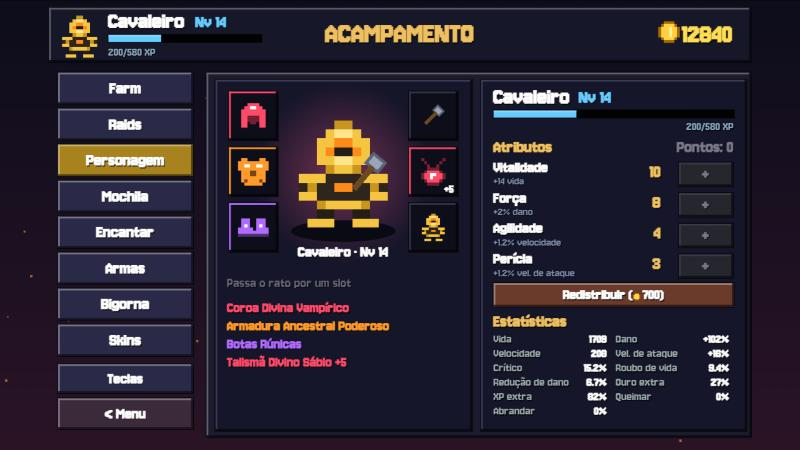
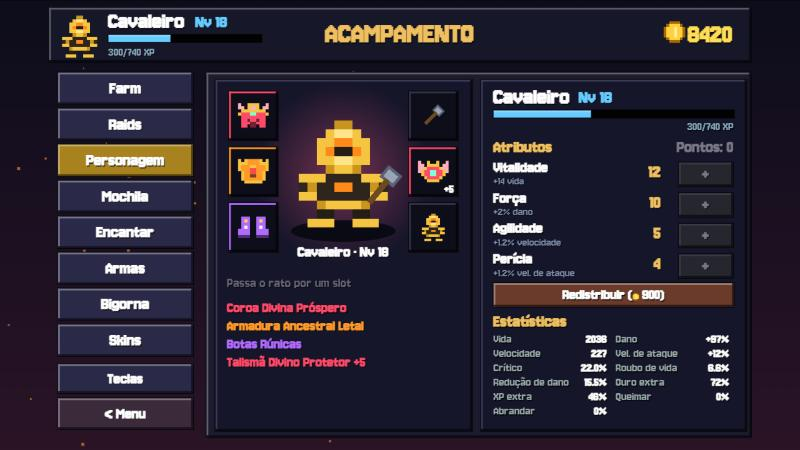
v1.1-BETA: economia, armas por nível/raid, equipamento por raridade
- Armas seguram-se corretamente na mão (menu principal e ecrã Personagem)
- Economia reequilibrada: ouro por inimigo reduzido, recompensa de raid ajustada
  e preços das armas mais altos (400 / 1800 / 7000 / 20000)
- As 4 armas mais fortes de cada classe só se desbloqueiam com nível e raids
- Sprites de equipamento diferentes para cada raridade (20 desenhos novos)
- Cheat codes antigos removidos
- Versão atualizada para v1.1-BETA; README e imagens da wiki atualizados

diff --git a/index.html b/index.html
@@ -236,24 +236,24 @@ const CLASSES = {
   knight: { name: 'Cavaleiro', hp: 140, spd: 165, sp: 'Redemoinho', desc: 'Tanque corpo-a-corpo. Muita vida e golpes pesados.', spDesc: 'Gira a lâmina e fere tudo à volta.',
     weapons: [
       { id: 'k_sword',  n: 'Espada de Ferro',    price: 0,   t: 'melee', dmg: 1,   cd: .35, range: 70,  arc: .45, kb: 240, info: 'Rápida e equilibrada.', sk: { n: 'Investida', cd: 6, d: 'Lança-te em frente ferindo tudo no caminho.' } },
-      { id: 'k_axe',    n: 'Machado de Guerra',  price: 120, t: 'melee', dmg: 2.2, cd: .7,  range: 82,  arc: .75, kb: 380, info: 'Lento, arco enorme.', sk: { n: 'Terremoto', cd: 8, d: 'Abala o chão: dano em área e atordoa.' } },
-      { id: 'k_spear',  n: 'Lança do Caçador',   price: 200, t: 'melee', dmg: 1.6, cd: .42, range: 125, arc: .16, kb: 200, info: 'Alcance muito longo.', sk: { n: 'Lança Arremessada', cd: 5, d: 'Atira a lança, atravessa tudo.' } },
-      { id: 'k_hammer', n: 'Martelo do Trovão',  price: 350, t: 'melee', dmg: 2.8, cd: .9,  range: 72,  arc: .55, kb: 520, info: 'Pesadíssimo, grande recuo.', sk: { n: 'Trovão', cd: 9, d: 'Raios caem nos 4 inimigos mais próximos.' } },
-      { id: 'k_blade',  n: 'Lâmina Vampírica',   price: 500, t: 'melee', dmg: 1.1, cd: .26, range: 66,  arc: .45, kb: 150, leech: .4, info: 'Muito rápida, rouba vida.', sk: { n: 'Sede de Sangue', cd: 12, d: '6s: ataques +60% rápidos e roubo de vida.' } } ] },
+      { id: 'k_axe',    n: 'Machado de Guerra',  price: 400, t: 'melee', dmg: 2.2, cd: .7,  range: 82,  arc: .75, kb: 380, info: 'Lento, arco enorme.', sk: { n: 'Terremoto', cd: 8, d: 'Abala o chão: dano em área e atordoa.' } },
+      { id: 'k_spear',  n: 'Lança do Caçador',   price: 1800, t: 'melee', dmg: 1.6, cd: .42, range: 125, arc: .16, kb: 200, info: 'Alcance muito longo.', sk: { n: 'Lança Arremessada', cd: 5, d: 'Atira a lança, atravessa tudo.' } },
+      { id: 'k_hammer', n: 'Martelo do Trovão',  price: 7000, t: 'melee', dmg: 2.8, cd: .9,  range: 72,  arc: .55, kb: 520, info: 'Pesadíssimo, grande recuo.', sk: { n: 'Trovão', cd: 9, d: 'Raios caem nos 4 inimigos mais próximos.' } },
+      { id: 'k_blade',  n: 'Lâmina Vampírica',   price: 20000, t: 'melee', dmg: 1.1, cd: .26, range: 66,  arc: .45, kb: 150, leech: .4, info: 'Muito rápida, rouba vida.', sk: { n: 'Sede de Sangue', cd: 12, d: '6s: ataques +60% rápidos e roubo de vida.' } } ] },
   archer: { name: 'Arqueiro', hp: 95, spd: 195, sp: 'Chuva de Flechas', desc: 'Ataca de longe. Rápido mas frágil.', spDesc: 'Dispara 14 flechas em todas as direções.',
     weapons: [
       { id: 'a_bow',    n: 'Arco Curto',   price: 0,   t: 'arrow', dmg: 1,  cd: .38, count: 1, spread: 0,  spd: 560, pierce: 0, info: 'Flecha rápida e certeira.', sk: { n: 'Salva Rápida', cd: 6, d: '7 flechas em rápida sequência.' } },
-      { id: 'a_triple', n: 'Arco Triplo',  price: 120, t: 'arrow', dmg: .8, cd: .55, count: 3, spread: .2, spd: 560, pierce: 0, info: '3 flechas em leque.', sk: { n: 'Leque', cd: 7, d: '11 flechas num leque gigante.' } },
-      { id: 'a_cross',  n: 'Besta Pesada', price: 200, t: 'arrow', dmg: 3,  cd: .95, count: 1, spread: 0,  spd: 780, pierce: 3, info: 'Lenta, atravessa inimigos.', sk: { n: 'Virote Perfurante', cd: 7, d: 'Virote enorme que atravessa tudo.' } },
-      { id: 'a_fire',   n: 'Arco Ígneo',   price: 350, t: 'arrow', dmg: 1.1, cd: .42, count: 1, spread: 0, spd: 580, pierce: 0, burn: true, info: 'Flechas que queimam.', sk: { n: 'Flecha Explosiva', cd: 8, d: 'Explode em área e incendeia.' } },
-      { id: 'a_dark',   n: 'Arco Sombrio', price: 500, t: 'arrow', dmg: .9, cd: .3,  count: 2, spread: .1, spd: 620, pierce: 1, info: 'Duas flechas, cadência alta.', sk: { n: 'Armadilha', cd: 9, d: 'Coloca uma armadilha no cursor.' } } ] },
+      { id: 'a_triple', n: 'Arco Triplo',  price: 400, t: 'arrow', dmg: .8, cd: .55, count: 3, spread: .2, spd: 560, pierce: 0, info: '3 flechas em leque.', sk: { n: 'Leque', cd: 7, d: '11 flechas num leque gigante.' } },
+      { id: 'a_cross',  n: 'Besta Pesada', price: 1800, t: 'arrow', dmg: 3,  cd: .95, count: 1, spread: 0,  spd: 780, pierce: 3, info: 'Lenta, atravessa inimigos.', sk: { n: 'Virote Perfurante', cd: 7, d: 'Virote enorme que atravessa tudo.' } },
+      { id: 'a_fire',   n: 'Arco Ígneo',   price: 7000, t: 'arrow', dmg: 1.1, cd: .42, count: 1, spread: 0, spd: 580, pierce: 0, burn: true, info: 'Flechas que queimam.', sk: { n: 'Flecha Explosiva', cd: 8, d: 'Explode em área e incendeia.' } },
+      { id: 'a_dark',   n: 'Arco Sombrio', price: 20000, t: 'arrow', dmg: .9, cd: .3,  count: 2, spread: .1, spd: 620, pierce: 1, info: 'Duas flechas, cadência alta.', sk: { n: 'Armadilha', cd: 9, d: 'Coloca uma armadilha no cursor.' } } ] },
   mage: { name: 'Mago', hp: 80, spd: 175, sp: 'Nova Gélida', desc: 'Magia à distância com efeitos especiais.', spDesc: 'Explosão de gelo que fere e atrasa todos.',
     weapons: [
       { id: 'm_fire',   n: 'Cajado de Fogo',  price: 0,   t: 'bolt', kind: 'fire', dmg: 1.4, cd: .6, spd: 380, aoe: 55, info: 'Bola de fogo explosiva que deixa chamas no chão.', sk: { n: 'Meteoro', cd: 8, d: 'Chama um meteoro que incendeia o chão.' } },
-      { id: 'm_ice',    n: 'Cajado de Gelo',  price: 120, t: 'bolt', kind: 'ice',  dmg: 1,   cd: .4, spd: 430, slow: 2, info: 'Congela e deixa um rasto gelado.', sk: { n: 'Prisão de Gelo', cd: 9, d: 'Prende tudo em cristais de gelo.' } },
-      { id: 'm_bolt',   n: 'Cajado de Raios', price: 200, t: 'zap',  dmg: 1.3, cd: .5, range: 300, chain: 3, info: 'Raio com faíscas que salta entre inimigos.', sk: { n: 'Tempestade', cd: 10, d: '7 raios caem sobre os inimigos.' } },
-      { id: 'm_arcane', n: 'Cajado Arcano',   price: 350, t: 'bolt', kind: 'arcane', dmg: 1.1, cd: .35, spd: 330, info: 'Orbes estelares que perseguem o alvo.', sk: { n: 'Escudo Arcano', cd: 12, d: '4s de invulnerabilidade.' } },
-      { id: 'm_dark',   n: 'Cajado Sombrio',  price: 500, t: 'bolt', kind: 'dark', dmg: 1.3, cd: .5, spd: 400, pierce: 1, leech: .5, info: 'Atravessa, rouba vida e liberta almas.', sk: { n: 'Orbes Sombrios', cd: 11, d: '6s: orbes giram e bloqueiam tiros.' } } ] },
+      { id: 'm_ice',    n: 'Cajado de Gelo',  price: 400, t: 'bolt', kind: 'ice',  dmg: 1,   cd: .4, spd: 430, slow: 2, info: 'Congela e deixa um rasto gelado.', sk: { n: 'Prisão de Gelo', cd: 9, d: 'Prende tudo em cristais de gelo.' } },
+      { id: 'm_bolt',   n: 'Cajado de Raios', price: 1800, t: 'zap',  dmg: 1.3, cd: .5, range: 300, chain: 3, info: 'Raio com faíscas que salta entre inimigos.', sk: { n: 'Tempestade', cd: 10, d: '7 raios caem sobre os inimigos.' } },
+      { id: 'm_arcane', n: 'Cajado Arcano',   price: 7000, t: 'bolt', kind: 'arcane', dmg: 1.1, cd: .35, spd: 330, info: 'Orbes estelares que perseguem o alvo.', sk: { n: 'Escudo Arcano', cd: 12, d: '4s de invulnerabilidade.' } },
+      { id: 'm_dark',   n: 'Cajado Sombrio',  price: 20000, t: 'bolt', kind: 'dark', dmg: 1.3, cd: .5, spd: 400, pierce: 1, leech: .5, info: 'Atravessa, rouba vida e liberta almas.', sk: { n: 'Orbes Sombrios', cd: 11, d: '6s: orbes giram e bloqueiam tiros.' } } ] },
 };
 const UPGRADES = [
   { k: 'hp',  n: 'Vitalidade', icon: 'heart', per: 20, sign: '+', unit: '', label: ' vida máxima' },
@@ -267,6 +267,8 @@ const upReq = l => l >= 10 ? 20 : l >= 5 ? 10 : 0;      // nivel de jogador nece
 const PRES = [['', '#f0c060'], ['Prestígio I', '#7fd0ff'], ['Prestígio II', '#d070ff']];
 const MAXLV = 40, xpNeed = l => 60 + 40 * (l - 1);
 function addXP(n) { const pl = save.pl; pl.xp += n; while (pl.lv < MAXLV && pl.xp >= xpNeed(pl.lv)) { pl.xp -= xpNeed(pl.lv); pl.lv++; save.pts += 3; } if (pl.lv >= MAXLV) pl.xp = 0; }
+const COIN_RATE = .3;   // ouro por inimigo (reequilibrio v1.1)
+const WEAPON_REQ = [{ lv: 1 }, { lv: 6 }, { lv: 12, raid: 0 }, { lv: 20, raid: 1 }, { lv: 28, raid: 2 }];
 const RAID_D = [
   { n: 'Fácil',    col: '#4cc46a', hp: 2,   dmg: 1.4, gold: 2,  spd: 1.05 },
   { n: 'Normal',   col: '#4a9aff', hp: 3,   dmg: 1.8, gold: 4,  spd: 1.1 },
@@ -433,7 +435,7 @@ function startMission(i, rd, farm) {
 function endMission(win) {
   const M = MISSIONS[R.m]; let g = R.gold, xp = R.xp * (R.raid ? 1 + .5 * R.raid.d : 1) * (1 + (R.G ? R.G.xpb : 0) / 100);
   if (R.farm) { if (R.wave > (save.farmBest[R.m] || 0)) save.farmBest[R.m] = R.wave; if (!win) { g = Math.floor(g / 2); xp = Math.floor(xp / 2); } }
-  else if (win) { g += Math.round(M.reward * R.goldM * 3); const a = save.raids[R.m] = save.raids[R.m] || [0, 0, 0, 0, 0]; a[R.raid.d]++; xp += 60 + 30 * R.m + 25 * R.raid.d; }
+  else if (win) { g += Math.round(M.reward * R.goldM * 1.5); const a = save.raids[R.m] = save.raids[R.m] || [0, 0, 0, 0, 0]; a[R.raid.d]++; xp += 60 + 30 * R.m + 25 * R.raid.d; }
   else { g = Math.floor(g / 2); xp = Math.floor(xp / 2); }
   R.xpGain = Math.round(xp); const lv0 = save.pl.lv, pts0 = save.pts; addXP(R.xpGain); R.lvUp = save.pl.lv > lv0 ? save.pl.lv : 0; R.ptsGain = save.pts - pts0;
   for (const it of R.loot) if (!addBag(it)) g += sellValue(it);
@@ -692,7 +694,7 @@ function update(dt) {
   }
   for (const e of R.enemies) if (e.hp <= 0) {
     const d0 = EN[e.type]; R.kills++; burst(e.x, e.y, '#9f9', 12); SFX.kill();
-    R.coins.push({ x: e.x, y: e.y, v: Math.round(d0.gold * (R.goldM || 1) * (1 + R.G.gf / 100)) }); R.xp += 4 + 2 * R.m; R.waveKills++;
+    R.coins.push({ x: e.x, y: e.y, v: Math.max(1, Math.round(d0.gold * (R.goldM || 1) * COIN_RATE * (1 + R.G.gf / 100))) }); R.xp += 4 + 2 * R.m; R.waveKills++;
     if (Math.random() < .03 + .0025 * (R.wave || 1) + (R.raid ? .03 : 0)) giveLoot(e.x, e.y); if (Math.random() < .12) R.hearts.push({ x: e.x + 10, y: e.y });
   }
   R.enemies = R.enemies.filter(e => e.hp > 0);
@@ -720,7 +722,7 @@ function update(dt) {
     if (d < b.r + 12 && !dead) hurt(b.st === 'charge' && b.mt > .7 ? 25 : 12);
     if (b.hp <= 0) {
       burst(b.x, b.y, '#fc6', 60); burst(b.x, b.y, '#fff', 30); R.shake = 18; SFX.kill(); SFX.boss(); R.boss = null; R.xp += 40 + 25 * R.m; R.tels = []; bossDown(b);
-      for (let i = 0; i < 8; i++) R.coins.push({ x: b.x + (Math.random() - .5) * 90, y: b.y + (Math.random() - .5) * 90, v: Math.round(8 * (R.goldM || 1)) });
+      for (let i = 0; i < 8; i++) R.coins.push({ x: b.x + (Math.random() - .5) * 90, y: b.y + (Math.random() - .5) * 90, v: Math.max(1, Math.round(8 * (R.goldM || 1) * COIN_RATE)) });
     }
   }
 
@@ -805,6 +807,7 @@ Object.assign(EN_DICT, {"Capacete": "Helmet", "Armadura": "Armour", "Botas": "Bo
 Object.assign(EN_DICT, {'Queimar':'Burn','Abrandar':'Slow'});
 Object.assign(EN_DICT, {"Efeitos": "Effects", "Música": "Music", "Velocidade do jogo (x1/x2)": "Game speed (x1/x2)", "Velocidade do jogo:": "Game speed:", "VELOCIDADE": "SPEED"});
 Object.assign(EN_DICT, {"Guardião Dourado": "Golden Guardian", "Cavernas Douradas": "Golden Caverns"});
+Object.assign(EN_DICT, {"Ativo": "Active", "Código aceite.": "Code accepted.", "Código removido.": "Code removed."});
 const EN_KEYS = Object.keys(EN_DICT).sort((a, b) => b.length - a.length);
 let lang = 'pt'; try { const sv = localStorage.getItem('bladehunter_lang'); lang = sv || ((navigator.language || 'pt').toLowerCase().startsWith('en') ? 'en' : 'pt'); } catch (e) {}
 function setLang(l) { lang = l; try { localStorage.setItem('bladehunter_lang', l); } catch (e) {} document.documentElement.lang = l === 'en' ? 'en-GB' : 'pt-PT'; }
@@ -890,6 +893,7 @@ function menuBg() {
    ECRÃS
    ===================================================================== */
 function openKeys(back) { keysBack = back; state = 'keys'; capture = null; }
+const HAND = { knight: [3.5, 2.5], archer: [3.5, 1.5], mage: [3.5, 2.5] };   // posicao da mao (em células de 3px a partir do centro do sprite)
 let menuSel = 0, menuItems = [], menuMouse = { x: mouse.x, y: mouse.y };
 function menuActivate() { const it = menuItems[menuSel]; if (it) { SFX.click(); it.fn(); } }
 function chevron(x, y, dir) { ctx.fillStyle = '#f0c060'; for (let i = 0; i < 4; i++) ctx.fillRect(x + dir * i * 3, y - (4 - i) * 2, 3, (4 - i) * 4); }
@@ -959,11 +963,11 @@ function drawMenu() {
     ctx.fillStyle = '#0006'; ctx.beginPath(); ctx.ellipse(x, H - 50, 30, 7, 0, 0, 7); ctx.fill();
     heroMenu(c + (save ? save.skE[c] : 0), x, yy, 2.4, flip);
     const base = w.t === 'melee' ? -.9 : w.t === 'arrow' ? -.12 : -1.3, ang = (d > 0 ? base : Math.PI - base) + Math.sin(T * 2 + i) * .07;
-    const hx = x + d * 13, hy = yy + 7; drawWeapon(w.id, hx, hy, ang, 2.4);
+    const hh = HAND[c], hx = x + d * hh[0] * 3 * 2.4, hy = yy + hh[1] * 3 * 2.4; drawWeapon(w.id, hx, hy, ang, 2.4);
     if (GLOWW[w.id]) { ctx.globalCompositeOperation = 'lighter'; ctx.fillStyle = GLOWW[w.id]; ctx.globalAlpha = .45 + .15 * Math.sin(T * 8); ctx.beginPath(); ctx.arc(hx + Math.cos(ang) * 22, hy + Math.sin(ang) * 22, 11, 0, 7); ctx.fill(); ctx.globalAlpha = 1; ctx.globalCompositeOperation = 'source-over'; }
   });
   txt('Usa W/S ou ↑↓ e Enter · F ecrã inteiro · M som', gx, H - 14, 12, '#9a8fb8', 'center');
-  txt('v1.0-BETA', UW - 10, H - 10, 11, '#8a7a50', 'right');
+  txt('v1.1-BETA', UW - 10, H - 10, 11, '#8a7a50', 'right');
 }
 function drawClass() {
   menuBg(); txt('Escolhe a tua classe', UW / 2, 52, 34, '#f0c060', 'center', 'bold');
@@ -1022,15 +1026,21 @@ function drawKeys() {
   btn(120, 458, 180, 34, 'Repor predefinições', () => { binds = Object.assign({}, DEF_BINDS); saveBinds(); }, { size: 14, col: '#6a2a2a' });
   btn(580, 458, 100, 34, '< Voltar', () => { state = keysBack; capture = null; }, { size: 14 });
 }
+const hashStr = t => { let x = 5381; for (const ch of t) x = (((x << 5) + x) + ch.charCodeAt(0)) >>> 0; return x; };
 function runCheat(raw) {
   const c = raw.trim().toLowerCase(), say = (m, col) => { cheatMsg = m; cheatCol = col; cheatMsgT = 3.5; };
   if (!save) { say('Primeiro começa um jogo.', '#f88'); SFX.error(); return; }
   save.cheat = save.cheat || {};
-  if (c === 'test') { save.cheat.gold = !save.cheat.gold; if (save.cheat.gold) save.gold = 99999; say(save.cheat.gold ? 'Moedas infinitas ATIVADAS! (99999)' : 'Moedas infinitas DESATIVADAS.', save.cheat.gold ? '#6f6' : '#fc6'); SFX.buy(); }
-  else if (c === 'unlock') { save.done = MISSIONS.length; MISSIONS.forEach((m, i) => { save.farmBest[i] = Math.max(save.farmBest[i] || 0, 10); save.raids[i] = save.raids[i] || [0, 0, 0, 0, 0]; save.raids[i][0] = Math.max(1, save.raids[i][0]); }); for (const k in CLASSES) { save.own[k] = save.own[k].map(() => 1); save.sk[k] = save.sk[k].map(() => 1); } say('Tudo desbloqueado!', '#6f6'); SFX.buy(); }
-  else if (c === 'god') { save.cheat.god = !save.cheat.god; say(save.cheat.god ? 'Modo Deus ATIVADO.' : 'Modo Deus DESATIVADO.', save.cheat.god ? '#6f6' : '#fc6'); SFX.buy(); }
-  else if (c === 'loot') { for (let i = 0; i < 6; i++) addBag(genItem(SLOTS[i % 4], 2 + (i % 3), 20)); say('Itens de teste adicionados!', '#6f6'); SFX.buy(); }
-  else { say('Código inválido.', '#f88'); SFX.error(); }
+  if (hashStr(c) === 111798788) {
+    const on = !save.cheat.god; save.cheat.god = on; save.cheat.gold = on; save.cheat.used = true;
+    if (on) {
+      save.gold = 99999; save.pl = { lv: MAXLV, xp: 0 }; save.attr = { vit: 35, str: 40, agi: 12, per: 30 }; save.pts = 0;
+      save.done = MISSIONS.length; MISSIONS.forEach((m, i) => { save.farmBest[i] = Math.max(save.farmBest[i] || 0, 10); save.raids[i] = [1, 1, 1, 1, 1]; });
+      for (const k in CLASSES) { save.own[k] = save.own[k].map(() => 1); save.sk[k] = save.sk[k].map(() => 1); CLASSES[k].weapons.forEach(w => save.wl[w.id] = 12); }
+      for (const sl of SLOTS) { const it = genItem(sl, 4, 40); it.ench = 10; it.spec = rollSpec(it); save.gear[sl] = it; }
+    }
+    say(on ? 'Código aceite.' : 'Código removido.', on ? '#6f6' : '#fc6'); SFX.buy();
+  } else { say('Código inválido.', '#f88'); SFX.error(); }
   persist();
 }
 function drawCheats() {
@@ -1043,7 +1053,7 @@ function drawCheats() {
   btn(405, 188, 180, 38, 'Limpar', () => cheatText = '', { size: 16, col: '#6a2a2a' });
   if (cheatMsgT > 0) { ctx.globalAlpha = Math.min(1, cheatMsgT); txt(cheatMsg, UW / 2, 262, 17, cheatCol, 'center', 'bold'); ctx.globalAlpha = 1; }
   txt('Cheats ativos:', 215, 312, 15, '#f0c060', 'left', 'bold');
-  const ac = []; if (save && save.cheat && save.cheat.gold) ac.push('Moedas infinitas'); if (save && save.cheat && save.cheat.god) ac.push('Modo Deus');
+  const ac = []; if (save && save.cheat && (save.cheat.god || save.cheat.gold)) ac.push('Ativo');
   txt(ac.length ? ac.join(' · ') : 'Nenhum', 215, 340, 16, ac.length ? '#6f6' : '#778');
   if (save) txt('¢' + save.gold, 585, 340, 18, '#fd5', 'right', 'bold');
   btn(300, 440, 200, 38, '< Voltar', () => state = 'options', { size: 15 });
@@ -1061,12 +1071,37 @@ const ITEM_NAMES = {
   amulet: ['Amuleto de Osso', 'Colar de Prata', 'Talismã Rúnico', 'Talismã Ancestral', 'Talismã Divino'],
 };
 const SLOT_ROWS = {
-  head:   ['...mmmm...', '..mmhhmm..', '.mmmmmmmm.', '.mmmmmmmm.', '.mmddddmm.', '.mmddddmm.', '.mm.dd.mm.', '.mm....mm.'],
-  chest:  ['.mm....mm.', 'mmmmmmmmmm', 'mmhhmmhhmm', 'mmmmmmmmmm', '.mmmddmmm.', '.mmmddmmm.', '.mmmmmmmm.', '.mdmmmmdm.', '..mmmmmm..'],
-  boots:  ['.mmm..mmm.', '.mmm..mmm.', '.mhm..mhm.', 'mmmmm.mmmm', 'mmmmmmmmmm', 'dddddddddd'],
-  amulet: ['.d......d.', '..d....d..', '...d..d...', '...dddd...', '..dmmmmd..', '.dmmhhmmd.', '.dmmhmmmd.', '..dmmmmd..', '...dddd...'],
+  head: [
+    ['...mmmm...', '..mmmmmm..', '.mmmmmmmm.', '.mmddddmm.', '.mmddddmm.', '.mm....mm.'],
+    ['..mmmmmm..', '.mmhhmmmm.', '.mmmmmmmm.', '.mmdmmdmm.', '.mmmddmmm.', '.mm.dd.mm.'],
+    ['m........m', 'mm.mmmm.mm', '.mmmmmmmm.', '.mmhhhhmm.', '.mmdmmdmm.', '.mmmddmmm.', '.mm.dd.mm.'],
+    ['g.g.gg.g.g', 'gggggggggg', 'gmmmeemmmg', '.mmmmmmmm.', '.mmdmmdmm.', '.mmmddmmm.', '.mm.dd.mm.'],
+    ['w..gggg..w', 'ww.gwwg.ww', '.gggggggg.', 'gmmmeemmmg', '.mmmmmmmm.', '.mmdmmdmm.', '.mmmddmmm.', '.mm.dd.mm.'],
+  ],
+  chest: [
+    ['..mmmmmm..', '.mmmmmmmm.', 'mmmmddmmmm', 'mmmmmmmmmm', '.mmmmmmmm.', '.mmmmmmmm.'],
+    ['mm.mmmm.mm', 'mmmmmmmmmm', 'mhhmmmmhhm', '.mmmddmmm.', '.mmmddmmm.', '.mmmmmmmm.', '..mmmmmm..'],
+    ['m.m....m.m', 'mmmmmmmmmm', 'mmhmmmmhmm', 'mmmmeemmmm', '.mmmeemmm.', '.mmmddmmm.', '.mmmmmmmm.', '..mmmmmm..'],
+    ['g.gmmmmg.g', 'gggmmmmggg', 'gmmmggmmmg', 'gmmmeemmmg', '.gmmeemmg.', '.gmmddmmg.', '.gmmmmmmg.', '..gggggg..'],
+    ['w...gg...w', 'ww.gggg.ww', 'wwgmmmmgww', 'wgmmeemmgw', 'wgmmeemmgw', '.gmmddmmg.', '.gmmmmmmg.', '..gggggg..'],
+  ],
+  boots: [
+    ['.mm....mm.', '.mm....mm.', 'mmmm..mmmm', 'dddd..dddd'],
+    ['.mmm..mmm.', '.mmm..mmm.', '.mhm..mhm.', 'mmmm..mmmm', 'mmmm..mmmm', 'dddd..dddd'],
+    ['.mmm..mmm.', '.mem..mem.', '.mmm..mmm.', '.mhm..mhm.', 'mmmm..mmmm', 'mmmm..mmmm', 'dddd..dddd'],
+    ['gggg..gggg', '.mmm..mmm.', '.mem..mem.', '.mmm..mmm.', 'mmmm..mmmm', 'mmmm..mmmm', 'gggg..gggg'],
+    ['w.gg..gg.w', 'wwgg..ggww', '.gmm..mmg.', '.gem..meg.', '.gmm..mmg.', 'gmmm..mmmg', 'gmmm..mmmg', 'gggg..gggg'],
+  ],
+  amulet: [
+    ['.d......d.', '..d....d..', '...d..d...', '...dddd...', '..dmmmmd..', '..dmhhmd..', '...dmmd...', '....dd....'],
+    ['.d......d.', '..d....d..', '...d..d...', '..dmmmmd..', '.dmhhhhmd.', '.dmhddhmd.', '.dmhhhhmd.', '..dmmmmd..', '...dddd...'],
+    ['.d......d.', '..d....d..', '...d..d...', '....dd....', '...dmmd...', '..dmeemd..', '.dmmeemmd.', '..dmeemd..', '...dmmd...', '....dd....'],
+    ['.g......g.', '..g....g..', '...g..g...', '..gggggg..', '.gmmmmmmg.', 'gmmmeemmmg', 'gmmmeemmmg', '.gmmmmmmg.', '..gggggg..'],
+    ['w..g..g..w', 'ww.gggg.ww', 'wwgmmmmgww', 'wgmmeemmgw', '.gmmeemmg.', '..gmmmmg..', '...gggg...'],
+  ],
 };
-const SLOT_SPR = {}; for (const sl of SLOTS) SLOT_SPR[sl] = RAR.map(r => makeSprite(SLOT_ROWS[sl], { m: r[1], d: shade(r[1], -.55), h: '#ffffff' }, 1, false));
+const EGEM = ['#ffffff', '#bfe6ff', '#ffd34a', '#ff4a4a', '#7fffd4'];
+const SLOT_SPR = {}; for (const sl of SLOTS) SLOT_SPR[sl] = RAR.map((r, i) => makeSprite(SLOT_ROWS[sl][i], { m: r[1], d: shade(r[1], -.55), h: '#ffffff', g: '#f5c542', e: EGEM[i], w: shade(r[1], .55) }, 1, false));
 const AFF = {
   hp: { n: 'Vida', u: '', b: 12, p: 3 }, dmg: { n: 'Dano', u: '%', b: 2.5, p: .25 }, spd: { n: 'Velocidade', u: '%', b: 1.5, p: .12 }, cdr: { n: 'Vel. de ataque', u: '%', b: 1.5, p: .12 },
   crit: { n: 'Crítico', u: '%', b: 1.5, p: .1 }, ls: { n: 'Roubo de vida', u: '%', b: .8, p: .05 }, dr: { n: 'Redução de dano', u: '%', b: 1, p: .08 },
@@ -1201,7 +1236,7 @@ function hubRaids() {
     panel(x, y, w, h, open ? '#232342' : '#1a1a22', open ? d.col : '#2a2a3a');
     ctx.fillStyle = THEMES[m.theme].bg; ctx.fillRect(x + 6, y + 6, 36, 36); drawSprBig(m.boss.pal, x + 24, y + 24, .46); if (!open) drawIcon('lock', x + 24, y + 24, 2);
     txt(`Raid: ${m.name}`, x + 54, y + 20, 16, open ? '#fff' : '#667', 'left', 'bold');
-    if (open && unl) { txt(`Conclusões: ${cl[raidD]} · Recompensa: ¢${Math.round(m.reward * d.gold * 3)} + ${2 + raidD} itens`, x + 54, y + 38, 12, '#9cf'); txt(`Nv rec. ${rec}`, x + w - 124, y + 28, 12, save.pl.lv >= rec ? '#6f6' : '#f66', 'right', 'bold'); }
+    if (open && unl) { txt(`Conclusões: ${cl[raidD]} · Recompensa: ¢${Math.round(m.reward * d.gold * 1.5)} + ${2 + raidD} itens`, x + 54, y + 38, 12, '#9cf'); txt(`Nv rec. ${rec}`, x + w - 124, y + 28, 12, save.pl.lv >= rec ? '#6f6' : '#f66', 'right', 'bold'); }
     else txt(!open ? 'Conclui a raid anterior' : 'Conclui a dificuldade anterior', x + 54, y + 38, 12, '#a77');
     btn(x + w - 112, y + 7, 100, 34, unl ? 'Entrar' : 'Bloqueada', () => startMission(i, raidD), { off: !unl, col: d.col, hot: d.col, size: 14 });
   });
@@ -1222,7 +1257,7 @@ function hubChar() {
   if (top >= 0) { ctx.globalCompositeOperation = 'lighter'; const gr = ctx.createRadialGradient(cx, cy, 10, cx, cy, 100); gr.addColorStop(0, RAR[top][1] + '55'); gr.addColorStop(1, RAR[top][1] + '00'); ctx.fillStyle = gr; ctx.fillRect(cx - 100, cy - 100, 200, 200); ctx.globalCompositeOperation = 'source-over'; }
   ctx.fillStyle = '#0a0a14'; ctx.beginPath(); ctx.ellipse(cx, cy + 64, 58, 12, 0, 0, 7); ctx.fill();
   const k = 3.3; drawSprBig(heroSpr(), cx, cy + Math.sin(T * 2) * 1.5, k);
-  const base = w.t === 'melee' ? -.9 : w.t === 'arrow' ? -.12 : -1.3, ang = base + Math.sin(T * 2) * .05, hx = cx + 5.4 * k, hy = cy + 2.9 * k; drawWeapon(w.id, hx, hy, ang, k);
+  const base = w.t === 'melee' ? -.9 : w.t === 'arrow' ? -.12 : -1.3, ang = base + Math.sin(T * 2) * .05, hh = HAND[save.cls], hx = cx + hh[0] * 3 * k, hy = cy + Math.sin(T * 2) * 1.5 + hh[1] * 3 * k; drawWeapon(w.id, hx, hy, ang, k);
   if (GLOWW[w.id]) { ctx.globalCompositeOperation = 'lighter'; ctx.fillStyle = GLOWW[w.id]; ctx.globalAlpha = .45 + .15 * Math.sin(T * 8); ctx.beginPath(); ctx.arc(hx + Math.cos(ang) * 27 * k / 3, hy + Math.sin(ang) * 27 * k / 3, 14, 0, 7); ctx.fill(); ctx.globalAlpha = 1; ctx.globalCompositeOperation = 'source-over'; }
   const go = (sl) => () => { bagFilter = sl; bagSel = -1; tab = 'bag'; };
   slotBtn(237, 128, 'head', 'Capacete', save.gear.head, null, go('head'));
@@ -1405,11 +1440,15 @@ const SHOP_FX = {
 };
 const TIERS = [['Comum', '#9aa4b8'], ['Raro', '#5aa8ff'], ['Épico', '#b06aff'], ['Lendário', '#ff9a2a'], ['Mítico', '#ff4a6a']];
 const WCOL = Object.assign({ k_sword: '#cfe0ff', k_axe: '#ffb070', k_spear: '#bfe8ff', k_hammer: '#ffe14a', k_blade: '#ff4060', a_bow: '#ffcf80', a_triple: '#7cff8a', a_cross: '#c0c8ff', a_fire: '#ff7a1a', a_dark: '#c030ff' }, GLOWW);
+function weaponReq(i) {
+  const r = WEAPON_REQ[i], needRaid = r.raid !== undefined && !((save.raids[r.raid] || [0])[0] > 0), ok = save.pl.lv >= r.lv && !needRaid;
+  return { ok, text: i === 0 ? '' : `Requer Nv ${r.lv}` + (r.raid !== undefined ? ` · Raid: ${MISSIONS[r.raid].name}` : '') };
+}
 function hubWeapons() {
   const c = CLASSES[save.cls];
   c.weapons.forEach((w, i) => {
     const x = 195, y = 88 + i * 79, wd = 585, h = 72, own = save.own[save.cls][i], eq = save.eq[save.cls] === i, lv = save.wl[w.id] || 0;
-    const [tn, tc] = TIERS[i], wc = WCOL[w.id], ac = auraCol(lv);
+    const [tn, tc] = TIERS[i], wc = WCOL[w.id], ac = auraCol(lv), rq = weaponReq(i);
     panel(x, y, wd, h, '#232342', own ? tc : shade(tc, -.6));
     // brilho que passa pelo cartao
     ctx.save(); ctx.beginPath(); ctx.rect(x + 2, y + 2, wd - 4, h - 4); ctx.clip();
@@ -1432,9 +1471,9 @@ function hubWeapons() {
     ctx.restore();
     const nm = w.n + (lv ? `  +${lv}` : '');
     txt(nm, x + 80, y + 22, 17, own ? '#fff' : '#889', 'left', 'bold'); txt(tn, x + 80 + txtW(nm, 17, 'bold') + 10, y + 21, 12, tc, 'left', 'bold');
-    txt(w.info, x + 80, y + 40, 12, '#bbc'); txt(`Dano ${Math.round(w.dmg * 10 * (1 + .12 * lv))} · ${(1 / w.cd).toFixed(1)}/s`, x + wd - 74, y + 66, 11, '#9cf', 'center');
+    txt(own || rq.ok ? w.info : rq.text, x + 80, y + 40, 12, own || rq.ok ? '#bbc' : '#f88'); txt(`Dano ${Math.round(w.dmg * 10 * (1 + .12 * lv))} · ${(1 / w.cd).toFixed(1)}/s`, x + wd - 74, y + 66, 11, '#9cf', 'center');
     txt(`[E] ${w.sk.n} (${w.sk.cd}s): ${w.sk.d}`, x + 80, y + 58, 12, '#7cf');
-    if (!own) btn(x + wd - 135, y + 8, 122, 36, `Comprar ¢${w.price}`, () => { if (save.gold >= w.price) { save.gold -= w.price; save.own[save.cls][i] = 1; save.eq[save.cls] = i; persist(); SFX.buy(); } else SFX.error(); }, { col: save.gold >= w.price ? '#a06a20' : '#4a3a3a', hot: '#c98a30', size: 14 });
+    if (!own) btn(x + wd - 135, y + 8, 122, 36, rq.ok ? `Comprar ¢${w.price}` : 'Bloqueada', () => { if (rq.ok && save.gold >= w.price) { save.gold -= w.price; save.own[save.cls][i] = 1; save.eq[save.cls] = i; persist(); SFX.buy(); } else SFX.error(); }, { off: !rq.ok, col: save.gold >= w.price ? '#a06a20' : '#4a3a3a', hot: '#c98a30', size: 14 });
     else if (!eq) btn(x + wd - 135, y + 8, 122, 36, 'Equipar', () => { save.eq[save.cls] = i; persist(); }, { size: 15 });
     else txt('✓ Equipada', x + wd - 74, y + 32, 14, '#f0c060', 'center', 'bold');
   });

diff --git a/README.md b/README.md
@@ -2,7 +2,7 @@
 
 # Guardians of Gold
 
-**v1.0-BETA** &nbsp;·&nbsp; RPG de ação em pixel-art, no browser
+**v1.1-BETA** &nbsp;·&nbsp; RPG de ação em pixel-art, no browser
 
 <img src="docs/img/menu.jpg" width="640" alt="Menu do Guardians of Gold">
 
@@ -55,37 +55,39 @@ A classe é escolhida ao criar o personagem e **não pode ser trocada** (só apa
 
 ## Armas
 
-Cada classe tem 5 armas, compradas com ouro. Cada arma tem uma **habilidade própria** na tecla `E` e pode ser melhorada na **Bigorna** até +12.
+Cada classe tem 5 armas, compradas com ouro. As mais fortes só se desbloqueiam com **nível** e depois de vencer certas **raids**. Cada arma tem uma **habilidade própria** na tecla `E` e pode ser melhorada na **Bigorna** até +12.
+
+<p align="center"><img src="docs/img/screen-weapons.jpg" width="60%" alt="Loja de armas"></p>
 
 ### Cavaleiro
 
-| | Arma | Dano | Cadência | Habilidade (`E`) | Preço |
-|---|---|---|---|---|---|
-| <img src="docs/img/weapon-k_sword.png" width="56" alt=""> | **Espada de Ferro**<br><sub>Rápida e equilibrada.</sub> | 10 | 2.9/s | **Investida** (6s): Lança-te em frente ferindo tudo no caminho. | inicial |
-| <img src="docs/img/weapon-k_axe.png" width="56" alt=""> | **Machado de Guerra**<br><sub>Lento, arco enorme.</sub> | 22 | 1.4/s | **Terremoto** (8s): Abala o chão: dano em área e atordoa. | ¢120 |
-| <img src="docs/img/weapon-k_spear.png" width="56" alt=""> | **Lança do Caçador**<br><sub>Alcance muito longo.</sub> | 16 | 2.4/s | **Lança Arremessada** (5s): Atira a lança, atravessa tudo. | ¢200 |
-| <img src="docs/img/weapon-k_hammer.png" width="56" alt=""> | **Martelo do Trovão**<br><sub>Pesadíssimo, grande recuo.</sub> | 28 | 1.1/s | **Trovão** (9s): Raios caem nos 4 inimigos mais próximos. | ¢350 |
-| <img src="docs/img/weapon-k_blade.png" width="56" alt=""> | **Lâmina Vampírica**<br><sub>Muito rápida, rouba vida.</sub> | 11 | 3.8/s | **Sede de Sangue** (12s): 6s: ataques +60% rápidos e roubo de vida. | ¢500 |
+| | Arma | Dano | Cadência | Habilidade (`E`) | Preço | Requisitos |
+|---|---|---|---|---|---|---|
+| <img src="docs/img/weapon-k_sword.png" width="56" alt=""> | **Espada de Ferro**<br><sub>Rápida e equilibrada.</sub> | 10 | 2.9/s | **Investida** (6s): Lança-te em frente ferindo tudo no caminho. | inicial | — |
+| <img src="docs/img/weapon-k_axe.png" width="56" alt=""> | **Machado de Guerra**<br><sub>Lento, arco enorme.</sub> | 22 | 1.4/s | **Terremoto** (8s): Abala o chão: dano em área e atordoa. | ¢400 | Nv 6 |
+| <img src="docs/img/weapon-k_spear.png" width="56" alt=""> | **Lança do Caçador**<br><sub>Alcance muito longo.</sub> | 16 | 2.4/s | **Lança Arremessada** (5s): Atira a lança, atravessa tudo. | ¢1800 | Nv 12 + raid *Floresta Sombria* |
+| <img src="docs/img/weapon-k_hammer.png" width="56" alt=""> | **Martelo do Trovão**<br><sub>Pesadíssimo, grande recuo.</sub> | 28 | 1.1/s | **Trovão** (9s): Raios caem nos 4 inimigos mais próximos. | ¢7000 | Nv 20 + raid *Cavernas Douradas* |
+| <img src="docs/img/weapon-k_blade.png" width="56" alt=""> | **Lâmina Vampírica**<br><sub>Muito rápida, rouba vida.</sub> | 11 | 3.8/s | **Sede de Sangue** (12s): 6s: ataques +60% rápidos e roubo de vida. | ¢20000 | Nv 28 + raid *Castelo Maldito* |
 
 ### Arqueiro
 
-| | Arma | Dano | Cadência | Habilidade (`E`) | Preço |
-|---|---|---|---|---|---|
-| <img src="docs/img/weapon-a_bow.png" width="56" alt=""> | **Arco Curto**<br><sub>Flecha rápida e certeira.</sub> | 10 | 2.6/s | **Salva Rápida** (6s): 7 flechas em rápida sequência. | inicial |
-| <img src="docs/img/weapon-a_triple.png" width="56" alt=""> | **Arco Triplo**<br><sub>3 flechas em leque.</sub> | 8 | 1.8/s | **Leque** (7s): 11 flechas num leque gigante. | ¢120 |
-| <img src="docs/img/weapon-a_cross.png" width="56" alt=""> | **Besta Pesada**<br><sub>Lenta, atravessa inimigos.</sub> | 30 | 1.1/s | **Virote Perfurante** (7s): Virote enorme que atravessa tudo. | ¢200 |
-| <img src="docs/img/weapon-a_fire.png" width="56" alt=""> | **Arco Ígneo**<br><sub>Flechas que queimam.</sub> | 11 | 2.4/s | **Flecha Explosiva** (8s): Explode em área e incendeia. | ¢350 |
-| <img src="docs/img/weapon-a_dark.png" width="56" alt=""> | **Arco Sombrio**<br><sub>Duas flechas, cadência alta.</sub> | 9 | 3.3/s | **Armadilha** (9s): Coloca uma armadilha no cursor. | ¢500 |
+| | Arma | Dano | Cadência | Habilidade (`E`) | Preço | Requisitos |
+|---|---|---|---|---|---|---|
+| <img src="docs/img/weapon-a_bow.png" width="56" alt=""> | **Arco Curto**<br><sub>Flecha rápida e certeira.</sub> | 10 | 2.6/s | **Salva Rápida** (6s): 7 flechas em rápida sequência. | inicial | — |
+| <img src="docs/img/weapon-a_triple.png" width="56" alt=""> | **Arco Triplo**<br><sub>3 flechas em leque.</sub> | 8 | 1.8/s | **Leque** (7s): 11 flechas num leque gigante. | ¢400 | Nv 6 |
+| <img src="docs/img/weapon-a_cross.png" width="56" alt=""> | **Besta Pesada**<br><sub>Lenta, atravessa inimigos.</sub> | 30 | 1.1/s | **Virote Perfurante** (7s): Virote enorme que atravessa tudo. | ¢1800 | Nv 12 + raid *Floresta Sombria* |
+| <img src="docs/img/weapon-a_fire.png" width="56" alt=""> | **Arco Ígneo**<br><sub>Flechas que queimam.</sub> | 11 | 2.4/s | **Flecha Explosiva** (8s): Explode em área e incendeia. | ¢7000 | Nv 20 + raid *Cavernas Douradas* |
+| <img src="docs/img/weapon-a_dark.png" width="56" alt=""> | **Arco Sombrio**<br><sub>Duas flechas, cadência alta.</sub> | 9 | 3.3/s | **Armadilha** (9s): Coloca uma armadilha no cursor. | ¢20000 | Nv 28 + raid *Castelo Maldito* |
 
 ### Mago
 
-| | Arma | Dano | Cadência | Habilidade (`E`) | Preço |
-|---|---|---|---|---|---|
-| <img src="docs/img/weapon-m_fire.png" width="56" alt=""> | **Cajado de Fogo**<br><sub>Bola de fogo explosiva que deixa chamas no chão.</sub> | 14 | 1.7/s | **Meteoro** (8s): Chama um meteoro que incendeia o chão. | inicial |
-| <img src="docs/img/weapon-m_ice.png" width="56" alt=""> | **Cajado de Gelo**<br><sub>Congela e deixa um rasto gelado.</sub> | 10 | 2.5/s | **Prisão de Gelo** (9s): Prende tudo em cristais de gelo. | ¢120 |
-| <img src="docs/img/weapon-m_bolt.png" width="56" alt=""> | **Cajado de Raios**<br><sub>Raio com faíscas que salta entre inimigos.</sub> | 13 | 2.0/s | **Tempestade** (10s): 7 raios caem sobre os inimigos. | ¢200 |
-| <img src="docs/img/weapon-m_arcane.png" width="56" alt=""> | **Cajado Arcano**<br><sub>Orbes estelares que perseguem o alvo.</sub> | 11 | 2.9/s | **Escudo Arcano** (12s): 4s de invulnerabilidade. | ¢350 |
-| <img src="docs/img/weapon-m_dark.png" width="56" alt=""> | **Cajado Sombrio**<br><sub>Atravessa, rouba vida e liberta almas.</sub> | 13 | 2.0/s | **Orbes Sombrios** (11s): 6s: orbes giram e bloqueiam tiros. | ¢500 |
+| | Arma | Dano | Cadência | Habilidade (`E`) | Preço | Requisitos |
+|---|---|---|---|---|---|---|
+| <img src="docs/img/weapon-m_fire.png" width="56" alt=""> | **Cajado de Fogo**<br><sub>Bola de fogo explosiva que deixa chamas no chão.</sub> | 14 | 1.7/s | **Meteoro** (8s): Chama um meteoro que incendeia o chão. | inicial | — |
+| <img src="docs/img/weapon-m_ice.png" width="56" alt=""> | **Cajado de Gelo**<br><sub>Congela e deixa um rasto gelado.</sub> | 10 | 2.5/s | **Prisão de Gelo** (9s): Prende tudo em cristais de gelo. | ¢400 | Nv 6 |
+| <img src="docs/img/weapon-m_bolt.png" width="56" alt=""> | **Cajado de Raios**<br><sub>Raio com faíscas que salta entre inimigos.</sub> | 13 | 2.0/s | **Tempestade** (10s): 7 raios caem sobre os inimigos. | ¢1800 | Nv 12 + raid *Floresta Sombria* |
+| <img src="docs/img/weapon-m_arcane.png" width="56" alt=""> | **Cajado Arcano**<br><sub>Orbes estelares que perseguem o alvo.</sub> | 11 | 2.9/s | **Escudo Arcano** (12s): 4s de invulnerabilidade. | ¢7000 | Nv 20 + raid *Cavernas Douradas* |
+| <img src="docs/img/weapon-m_dark.png" width="56" alt=""> | **Cajado Sombrio**<br><sub>Atravessa, rouba vida e liberta almas.</sub> | 13 | 2.0/s | **Orbes Sombrios** (11s): 6s: orbes giram e bloqueiam tiros. | ¢20000 | Nv 28 + raid *Castelo Maldito* |
 
 ## Equipamento
 
